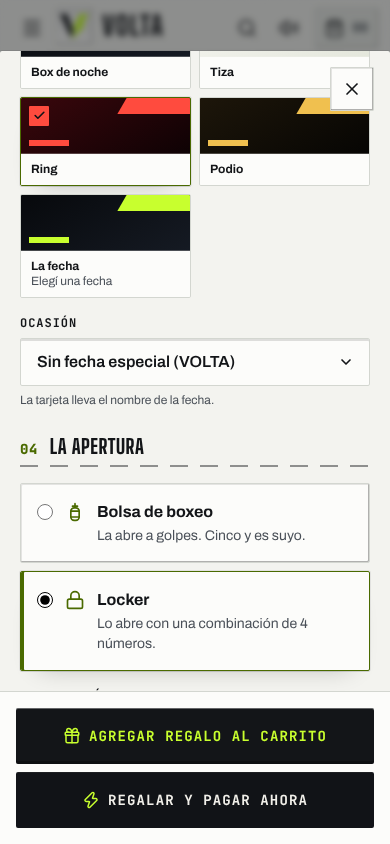
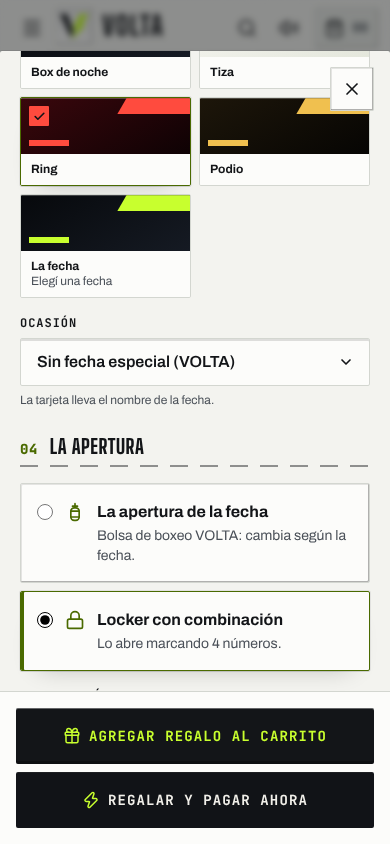
R3b (parte A): apertura de la fecha o locker en el armador, capturas nuevas
Claude-Session: https://claude.ai/code/session_01Kt4dPryhLvCL1gZD6xXjK4

Changed region(s): [[0.0308, 0.5853, 0.9538, 0.7701], [0.0923, 0.1232, 0.1231, 0.154]]

diff --git a/src/features/gifts/builder/OpeningSection.tsx b/src/features/gifts/builder/OpeningSection.tsx
@@ -6,7 +6,6 @@ import type { LineGift } from "@/demo/engine/cart-types";
 import { defaultLockerCode, lockerDigits } from "@/demo/engine/gift-options";
 import { DEMO_TODAY } from "@/demo/fixtures/admin-orders";
 import { useGiftDraft } from "@/stores/giftDraft";
-import { openingLine } from "@/demo/engine/gift-opening";
 import { openingName } from "../scenes";
 import { StepTitle } from "./StepTitle";
 
@@ -27,7 +26,7 @@ export function OpeningSection({ error, onEdit }: { error?: string; onEdit: (p: 
       <fieldset className="grid gap-2 sm:grid-cols-2">
         <legend className="sr-only">Cómo lo abre</legend>
         <OptionCard name="gift-opening" value="bolsa" checked={draft.opening !== "locker"} onChange={() => onEdit({ opening: "bolsa" })}
-          title="La apertura de la fecha" description={`${openingName(draft.occasion)}: ${openingLine({ occasion: draft.occasion }).replace(/^Lo abre /, "lo abre ")}`} icon={<BagGlyph />} />
+          title="La apertura de la fecha" description={`${openingName(draft.occasion)}: cambia según la fecha.`} icon={<BagGlyph />} />
         <OptionCard name="gift-opening" value="locker" checked={draft.opening === "locker"} onChange={() => onEdit({ opening: "locker", lockerCode: code })}
           title="Locker con combinación" description="Lo abre marcando 4 números." icon={<Lock size={20} aria-hidden="true" />} />
       </fieldset>

diff --git a/tests/e2e/r3b-regalos.spec.ts b/tests/e2e/r3b-regalos.spec.ts
@@ -104,7 +104,7 @@ test("sabor abierto: quien regala lo deja abierto, quien recibe lo elige despué
   await modal.getByText("Que elija el tamaño").click();
   // Regla del precio: se cobra la opción más cara de las que puede elegir (el tamaño grande).
   await expect(modal.getByText(/Se cobra .*5 lb \(2,27 kg\), la más cara de las que puede elegir/)).toBeVisible();
-  await modal.getByText("Locker", { exact: true }).click();
+  await modal.getByText("Locker con combinación", { exact: true }).click();
   await expect(modal.getByRole("textbox", { name: "Combinación" })).toHaveValue("0510");
   await modal.getByRole("button", { name: "Agregar regalo al carrito" }).click();
   await page.goto("checkout/");

diff --git a/tests/e2e/a11y-axe.spec.ts b/tests/e2e/a11y-axe.spec.ts
@@ -282,7 +282,7 @@ for (const mode of ["dark", "light"] as const) {
         await expect(modal).toBeVisible({ timeout: 1000 });
       }).toPass();
       await modal.getByText("Que elija el sabor").click();
-      await modal.getByText("Locker", { exact: true }).click();
+      await modal.getByText("Locker con combinación", { exact: true }).click();
       await check();
       await modal.getByText("Gift card con monto").click();
       await check();
